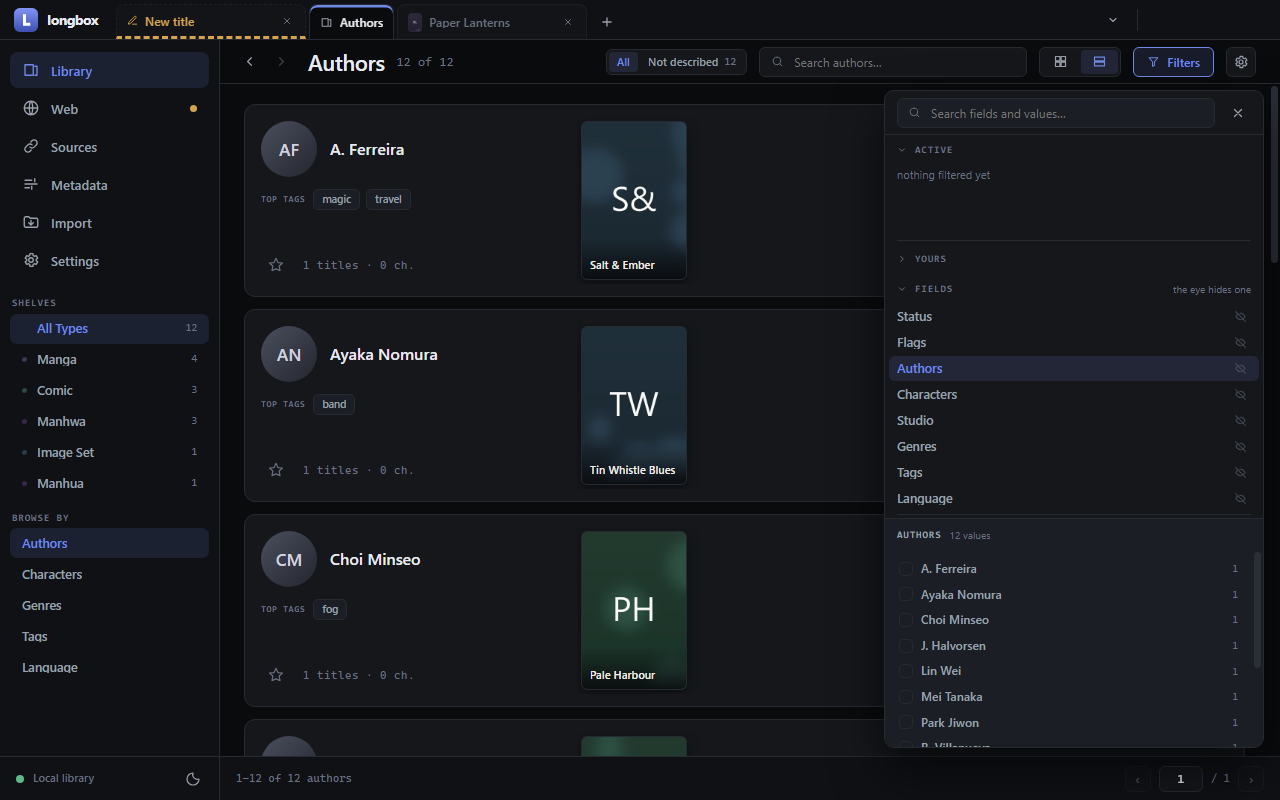
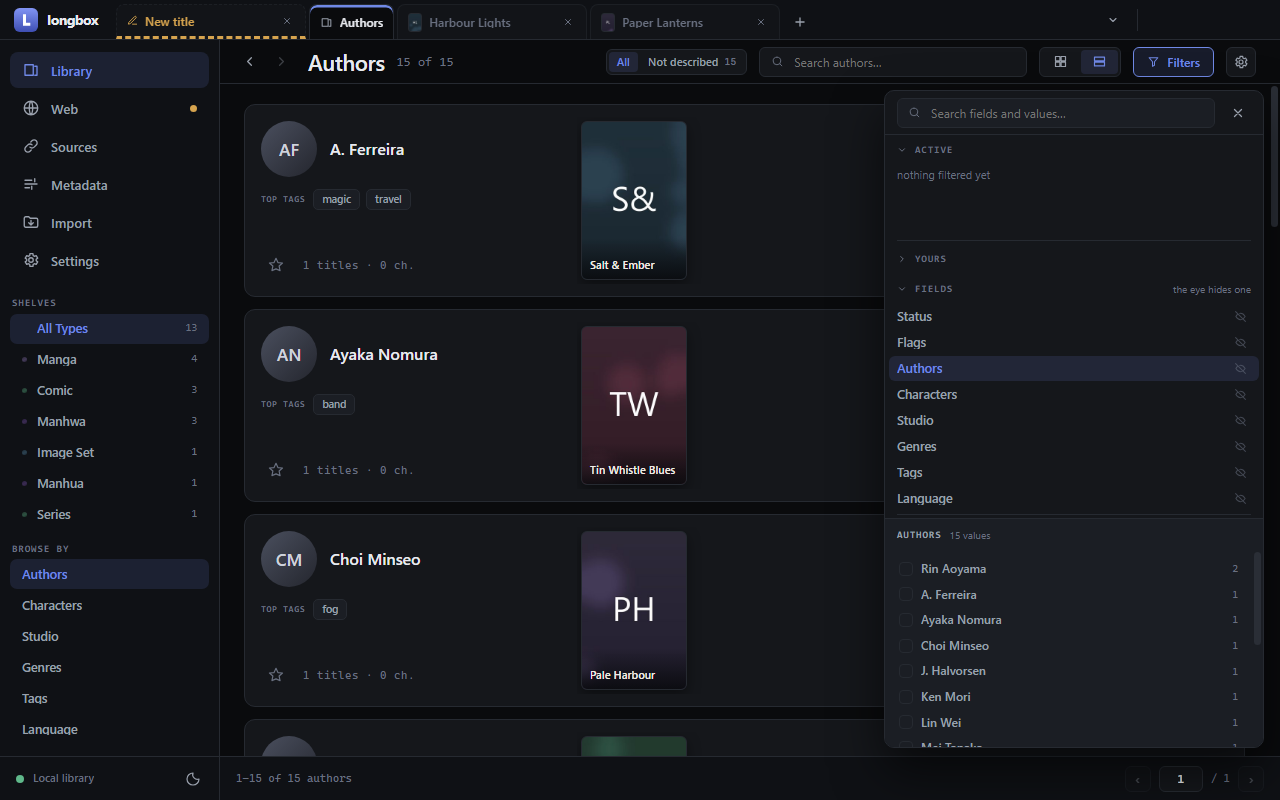
docs(page): the pages pane and an episode, shot from the app as it is
The title view no longer scrolls to its contents, so 04-contents came out
as a copy of 03-title; it now shows what its caption says — the pages pane
in edit mode, three pages picked with a click and a Shift+click. The
episode shot was the last one taken by hand, from the September interface;
the demo vault now holds a four-episode series, drawn by the script and
encoded with the ffmpeg the app bundles, and the shot is taken with its
contact sheet cut by the window. The demo's artists, dropped silently since
authors and artists became one field, are folded into its authors.

diff --git a/docs/index.html b/docs/index.html
@@ -228,7 +228,7 @@ footer a { color: var(--tx2); }
       <figcaption>A title page: metadata, people as links, and the contents tree.</figcaption>
     </figure>
     <figure class="shot">
-      <img src="img/04-contents.png" alt="The pages gallery of a chapter" />
+      <img src="img/04-contents.png" alt="A chapter's pages in edit mode, three of them picked" />
       <figcaption>The pages pane: select with Shift+click, move pages to another entry, delete, rearrange.</figcaption>
     </figure>
   </div>

diff --git a/tools/screenshots.py b/tools/screenshots.py
@@ -47,50 +47,54 @@ sys.path.insert(0, str(ROOT / "backend"))
 
 TITLES = [
     dict(title="Paper Lanterns", alt="紙提灯", type="manga", status="ongoing", year="2021",
-         authors=["Rin Aoyama"], artists=["Rin Aoyama"], characters=["Hana", "Toshi"],
+         authors=["Rin Aoyama"], characters=["Hana", "Toshi"],
          genres=["drama", "slice of life"], tags=["school", "friendship"], rating=5, fav=True,
          desc="A quiet coastal town, a paper lantern festival, and two friends who keep missing "
               "each other by a single street."),
     dict(title="Iron Meridian", type="manhwa", status="ongoing", year="2023",
-         authors=["Seo Ha-eun"], artists=["Studio Kestrel"], characters=["Captain Vale"],
+         authors=["Seo Ha-eun", "Studio Kestrel"], characters=["Captain Vale"],
          genres=["action", "sci-fi"], tags=["mecha", "war"], rating=4,
          desc="A cartographer is drafted to map the only corridor through a storm that eats machines."),
     dict(title="The Quiet Bakery", type="manga", status="completed", year="2019",
-         authors=["Mei Tanaka"], artists=["Mei Tanaka"], characters=["Oba-san", "Ken"],
+         authors=["Mei Tanaka"], characters=["Oba-san", "Ken"],
          genres=["slice of life", "comedy"], tags=["food", "family"], rating=5,
          desc="Nothing happens in this bakery, gloriously, for twelve volumes."),
     dict(title="Salt & Ember", type="comic", status="ongoing", year="2022",
-         authors=["A. Ferreira"], artists=["N. Okonkwo"], characters=["Wren"],
+         authors=["A. Ferreira", "N. Okonkwo"], characters=["Wren"],
          genres=["fantasy", "adventure"], tags=["magic", "travel"], rating=4, fav=True,
          desc="A salt trader walks a caravan road that only exists at dusk."),
     dict(title="Glass Orchard", type="manhua", status="paused", year="2020",
-         authors=["Lin Wei"], artists=["Lin Wei"], characters=["Xiao Yu"],
+         authors=["Lin Wei"], characters=["Xiao Yu"],
          genres=["mystery"], tags=["supernatural"], rating=3,
          desc="Every tree in the orchard remembers a different version of the same night."),
     dict(title="Northbound 404", type="comic", status="completed", year="2018",
-         authors=["J. Halvorsen"], artists=["J. Halvorsen"],
+         authors=["J. Halvorsen"],
          genres=["thriller"], tags=["road trip"], rating=4,
          desc="A courier, a highway that renumbers itself, and a package nobody ordered."),
     dict(title="Summer Static", type="manhwa", status="ongoing", year="2024",
-         authors=["Park Jiwon"], artists=["Park Jiwon"], characters=["Nari"],
+         authors=["Park Jiwon"], characters=["Nari"],
          genres=["romance", "drama"], tags=["music", "college"], rating=5, fav=True,
          desc="Two people who only talk during power cuts."),
     dict(title="Cartographer's Widow", type="manga", status="completed", year="2017",
-         authors=["Yuki Sasaki"], artists=["Ken Mori"],
+         authors=["Yuki Sasaki", "Ken Mori"],
          genres=["historical", "drama"], tags=["sea"], rating=4,
          desc="She finishes the maps he started, and finds the coastline has moved."),
     dict(title="Neon Fieldwork", type="image set", status="", year="2024",
          authors=["Studio Halcyon"], genres=["artbook"], tags=["colour study"],
          desc="A colour study set: eighty frames of the same street at different hours."),
+    dict(title="Harbour Lights", alt="港の灯り", type="series", status="completed", year="2024",
+         authors=["Rin Aoyama"], studio=["Studio Kestrel"], genres=["slice of life", "drama"],
+         tags=["seaside", "quiet"], rating=4,
+         desc="Six evenings on a harbour that is closing for the season."),
     dict(title="Tin Whistle Blues", type="manga", status="ongoing", year="2022",
-         authors=["Ayaka Nomura"], artists=["Ayaka Nomura"],
+         authors=["Ayaka Nomura"],
          genres=["music", "drama"], tags=["band"], rating=3,
          desc="A busker's notebook, one song per chapter."),
     dict(title="The Long Commute", type="comic", status="ongoing", year="2023",
          authors=["R. Villanueva"], genres=["comedy"], tags=["office"], rating=3,
          desc="Forty minutes each way, forever, and it is somehow a love story."),
     dict(title="Pale Harbour", type="manhwa", status="completed", year="2016",
-         authors=["Choi Minseo"], artists=["Choi Minseo"], characters=["Eun"],
+         authors=["Choi Minseo"], characters=["Eun"],
          genres=["horror", "mystery"], tags=["fog"], rating=4,
          desc="The lighthouse keeps its light on for something that is not a ship."),
 ]
@@ -102,6 +106,9 @@ CHAPTERS = {
     "summer-static": [("1", "EN", "Static Club", 10)],
     "neon-fieldwork": [("2024 Set A", "", "Halcyon", 14)],
 }
+
+# episodes: drawn here, encoded by the ffmpeg the app itself bundles
+EPISODES = {"harbour-lights": 4}
 
 PALETTES = [
     ((32, 48, 58), (43, 65, 80), (26, 39, 48)), ((58, 37, 48), (81, 43, 58), (51, 27, 36)),
@@ -169,6 +176,48 @@ def page_bytes(n: int, total: int, seed: int) -> bytes:
     return out.getvalue()
 
 
+def episode_file(n: int, out: Path, seconds: int = 48, fps: int = 8) -> None:
+    """A short abstract episode: a slow pan along a harbour at dusk, so the nine
+    frames its contact sheet is cut from all differ."""
+    from PIL import Image, ImageDraw, ImageFilter
+
+    from app.library.transcode import ffmpeg
+    rnd = random.Random(500 + n)
+    w, h = 640, 360
+    pano_w = w * 4
+    a, b, c = PALETTES[(n + 1) % len(PALETTES)]
+    pano = Image.new("RGB", (pano_w, h), a)
+    d = ImageDraw.Draw(pano)
+    for y in range(h):
+        t = y / h
+        d.line([(0, y), (pano_w, y)], fill=tuple(int(a[i] + (c[i] - a[i]) * t) for i in range(3)))
+    for _ in range(14):
+        x, y, r = rnd.randint(-80, pano_w), rnd.randint(-80, h // 2), rnd.randint(90, 220)
+        d.ellipse([x, y, x + r, y + r], fill=tuple(min(255, v + 40) for v in b))
+    pano = pano.filter(ImageFilter.GaussianBlur(30))
+    d = ImageDraw.Draw(pano)
+    horizon = int(h * 0.62)
+    for k in range(9):
+        y = horizon + 6 + k * 12
+        d.line([(0, y), (pano_w, y)], fill=tuple(min(255, v + 70 - k * 6) for v in b), width=1)
+    for _ in range(26):
+        x, r = rnd.randint(0, pano_w), rnd.randint(3, 7)
+        d.ellipse([x, horizon - r * 2, x + r * 2, horizon], fill=(250, 226, 170))
+    frames = seconds * fps
+    proc = subprocess.Popen(
+        [ffmpeg() or "ffmpeg", "-loglevel", "error", "-y", "-f", "rawvideo", "-pix_fmt", "rgb24",
+         "-s", f"{w}x{h}", "-r", str(fps), "-i", "-", "-c:v", "libx264", "-preset", "veryfast",
+         "-pix_fmt", "yuv420p", "-movflags", "+faststart", str(out)],
+        stdin=subprocess.PIPE)
+    assert proc.stdin is not None
+    for f in range(frames):
+        x = (pano_w - w) * f // (frames - 1)
+        proc.stdin.write(pano.crop((x, 0, x + w, h)).tobytes())
+    proc.stdin.close()
+    if proc.wait():
+        raise RuntimeError(f"ffmpeg could not encode episode {n}")
+
+
 def build_vault(root: Path, tmp: Path) -> None:
     from app.library.models import DraftIn, TitleMeta, UserPatch
     from app.library.service import Library
@@ -191,6 +240,12 @@ def build_vault(root: Path, tmp: Path) -> None:
                     zf.writestr(f"{k:03d}.jpg", page_bytes(k, pages, i + j))
             lib.attach_chapter_media(out.id, num=num, lang=lang, group=group, src=z,
                                      sidecar={"filename": z.name, "importedFrom": "local",
+                                              "downloadedAt": "2026-08-01T10:00:00+00:00"})
+        for n in range(1, EPISODES.get(out.id, 0) + 1):
+            v = tmp / f"{out.id}-{n:02d}.mp4"
+            episode_file(n, v)
+            lib.attach_chapter_media(out.id, num=str(n), lang="EN", group="", src=v,
+                                     sidecar={"filename": v.name, "importedFrom": "local",
                                               "downloadedAt": "2026-08-01T10:00:00+00:00"})
     t = lib.get("paper-lanterns")
     lib.patch_user("paper-lanterns", UserPatch(
@@ -299,8 +354,8 @@ const run = (win, js) =>
 // Wait until the UI is ACTUALLY in the state we are about to photograph — a
 // window that paints late would otherwise be caught mid-transition, or showing
 // whatever came next.
-async function until(win, js, what) {
-  for (let i = 0; i < 30; i++) {
+async function until(win, js, what, tries = 30) {
+  for (let i = 0; i < tries; i++) {
     if (await run(win, 'return !!(' + js + ')')) return
     await wait(300)
   }
@@ -341,9 +396,6 @@ async function main() {
   await run(win, `const c = [...document.querySelectorAll('*')].find((e) => e.className && String(e.className).includes('card') && /Paper Lanterns/.test(e.textContent)); (c || document.querySelector('.grid > *')).click()`)
   await shot(win, '03-title', `document.querySelector('.tv .ptile')`)
 
-  await run(win, `document.querySelector('.tv > .viewscroll')?.scrollBy({ top: 430 })`)
-  await shot(win, '04-contents', `document.querySelector('.tv .chrow')`)
-
   await run(win, `document.querySelector('.ptile')?.click()`)
   await shot(win, '05-reader', `document.querySelector('.reader .stage img')`)
 
@@ -352,6 +404,28 @@ async function main() {
 
   await run(win, `document.querySelector('.rback')?.click()`)
   await until(win, `document.querySelector('.tv')`, 'back on the title')
+
+  // the contents in edit mode: pages 2-4 picked, with a click and a Shift+click
+  await run(win, `document.querySelector('.tv .chedit')?.click()`)
+  await until(win, `document.querySelector('.tv .ptile.selectable')`, 'edit mode')
+  await run(win, `const ts = document.querySelectorAll('.tv .ptile'); ts[1].click(); ts[3].dispatchEvent(new MouseEvent('click', { bubbles: true, shiftKey: true }))`)
+  await shot(win, '04-contents', `document.querySelectorAll('.tv .ptile.sel').length === 3`)
+  await run(win, `[...document.querySelectorAll('.tv .chhead button')].find((b) => b.textContent.trim() === 'Done')?.click()`)
+
+  // the library tab went on to the title opened from it: the shelf brings it back
+  const backToLibrary = async () => {
+    await run(win, `[...document.querySelectorAll('.navitem')].find((x) => /Library/.test(x.textContent))?.click()`)
+    await run(win, `[...document.querySelectorAll('button')].find((b) => /^All types/i.test(b.textContent.trim()))?.click()`)
+    await until(win, `document.querySelector('.lib .grid')`, 'back to the library')
+  }
+  await backToLibrary()
+
+  // an episode in the list view: its contact sheet is cut by the window on first sight
+  await run(win, `const c = [...document.querySelectorAll('*')].find((e) => e.className && String(e.className).includes('card') && /Harbour Lights/.test(e.textContent)); c?.click()`)
+  await until(win, `document.querySelector('.tv .vseg')`, 'the episode title')
+  await run(win, `document.querySelector('.tv .vseg .opt[title="List"]')?.click()`)
+  await until(win, `document.querySelector('.tv .vcells')`, 'the contact sheet', 100)
+  await shot(win, '10-episode')
 
   // the capture browser: a local demo page in the webview, a fresh draft in the dock
   if (DEMO_PAGE) {
@@ -368,10 +442,7 @@ async function main() {
   await run(win, `[...document.querySelectorAll('.navitem')].find((x) => /Sources/.test(x.textContent))?.click()`)
   await shot(win, '11-sources', `document.querySelector('.srow')`)
 
-  // the library tab went on to the title opened from it: the shelf brings it back
-  await run(win, `[...document.querySelectorAll('.navitem')].find((x) => /Library/.test(x.textContent))?.click()`)
-  await run(win, `[...document.querySelectorAll('button')].find((b) => /^All types/i.test(b.textContent.trim()))?.click()`)
-  await until(win, `document.querySelector('.lib .grid')`, 'back to the library')
+  await backToLibrary()
   await run(win, `[...document.querySelectorAll('button')].find((b) => /^Browse by authors/.test(b.title || ''))?.click()`)
   await shot(win, '07-authors', `document.querySelector('.au .list')`)
 
